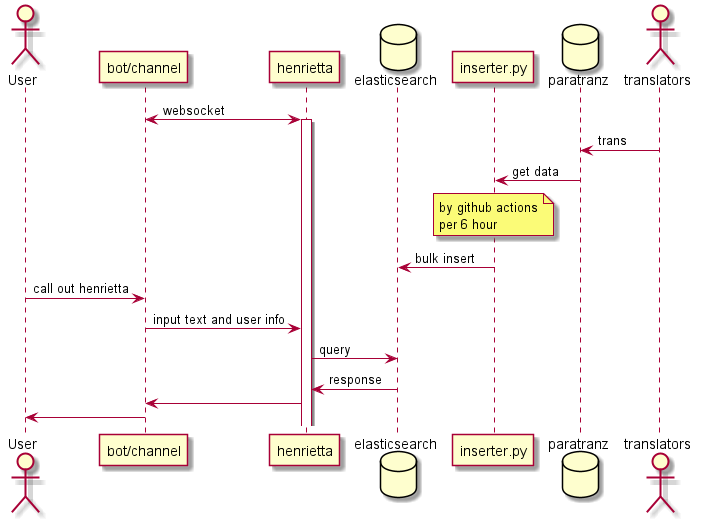
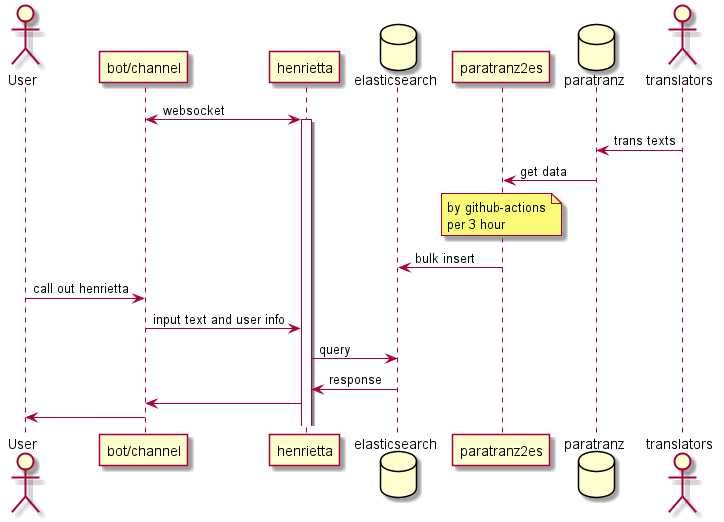
Add readme
-  [ci skip]

diff --git a/README.md b/README.md
@@ -1,15 +1,70 @@
 # Discord bot server
+
+ You can search for text in the translation data by talking to the [discord](https://discord.com/) bot.
  
-## sequence
+  ![img1](Resource/README.img2.png)
+
+## How to use
+
+### 1. Invite
+
+Invite this bot to your discord server.Click this link.
+
+> https://discord.com/api/oauth2/authorize?client_id=697306988685557841&permissions=2048&scope=bot
+
+### 2. Commands
+
+```
+SearchPrefix::options search-word ...
+```
+Example
+
+```
+Eu4::gb 巫女　沖縄
+```
+
+#### SearchPrefix
+
+See [paratranz2es](https://github.com/matanki-saito/paratranz2es) README.Lowercase and uppercase letters are ignored. 
+
+#### Options
+
+| Code | Description |
+| ---- | ---- |
+| g | list mode |
+| b | Partial Match |
+| n | Phrase Match(default) |
+
+#### Search-word
+
+If you list multiple words separated by spaces, the result is an AND search.Spaces are allowed in both half and full-width spaces.
+
+## Sequence
  
  ![img1](Resource/README.img1.png)
- 
-## documents
+
+### Translators and paratranz
+
+Volunteers translating in [paratranz](https://paratranz.cn/projects).
+
+### paratranz2es
+
+See [paratranz2es](https://github.com/matanki-saito/paratranz2es).
+
+### Elasticsearch
+
+Elasticsearch is a search engine.It is on EC2(ECS) of AWS.
+
+### henrietta
+
+This project.
+
+
+### bot/channel and User
+
+[Discord applications](https://discord.com/developers/applications) and users.
+
+## Code documents
 
  - [Schemaspy](https://matanki-saito.github.io/discordbot/schemadoc/)
  - [Javadoc](https://matanki-saito.github.io/discordbot/javadoc/)
-
-## References
-
- - inserter.py: [paratranz2es](https://github.com/matanki-saito/paratranz2es)
- - paratranz: [paratranz](https://paratranz.cn/projects)
